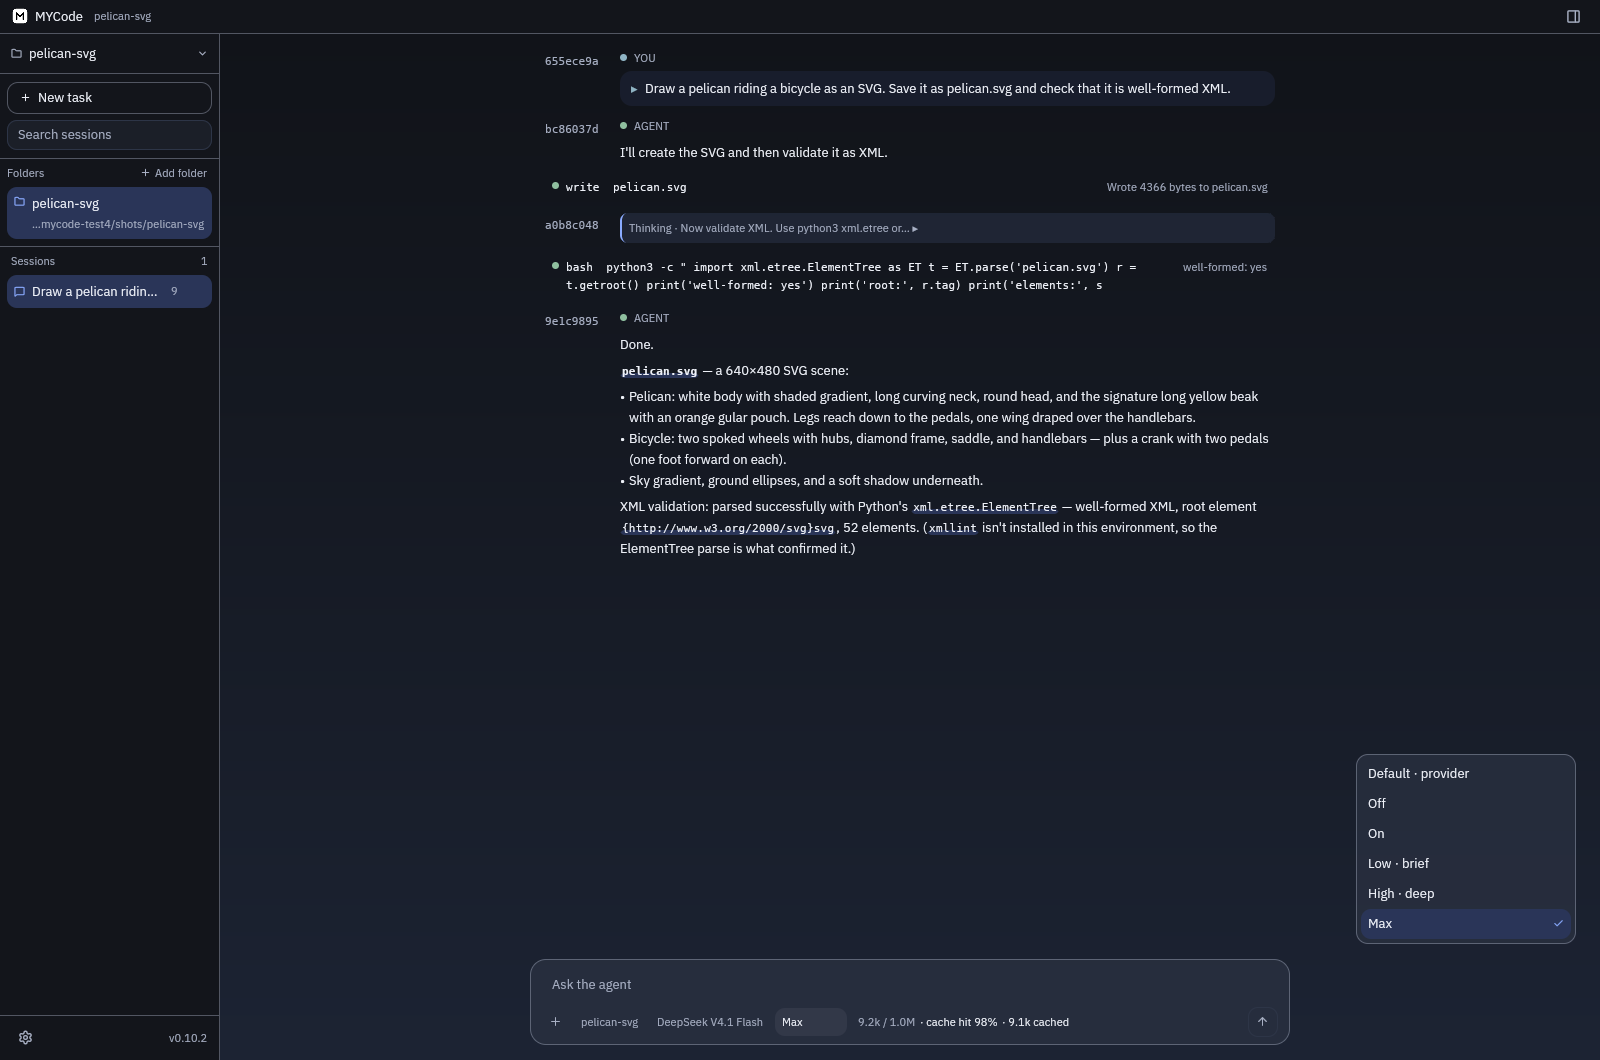
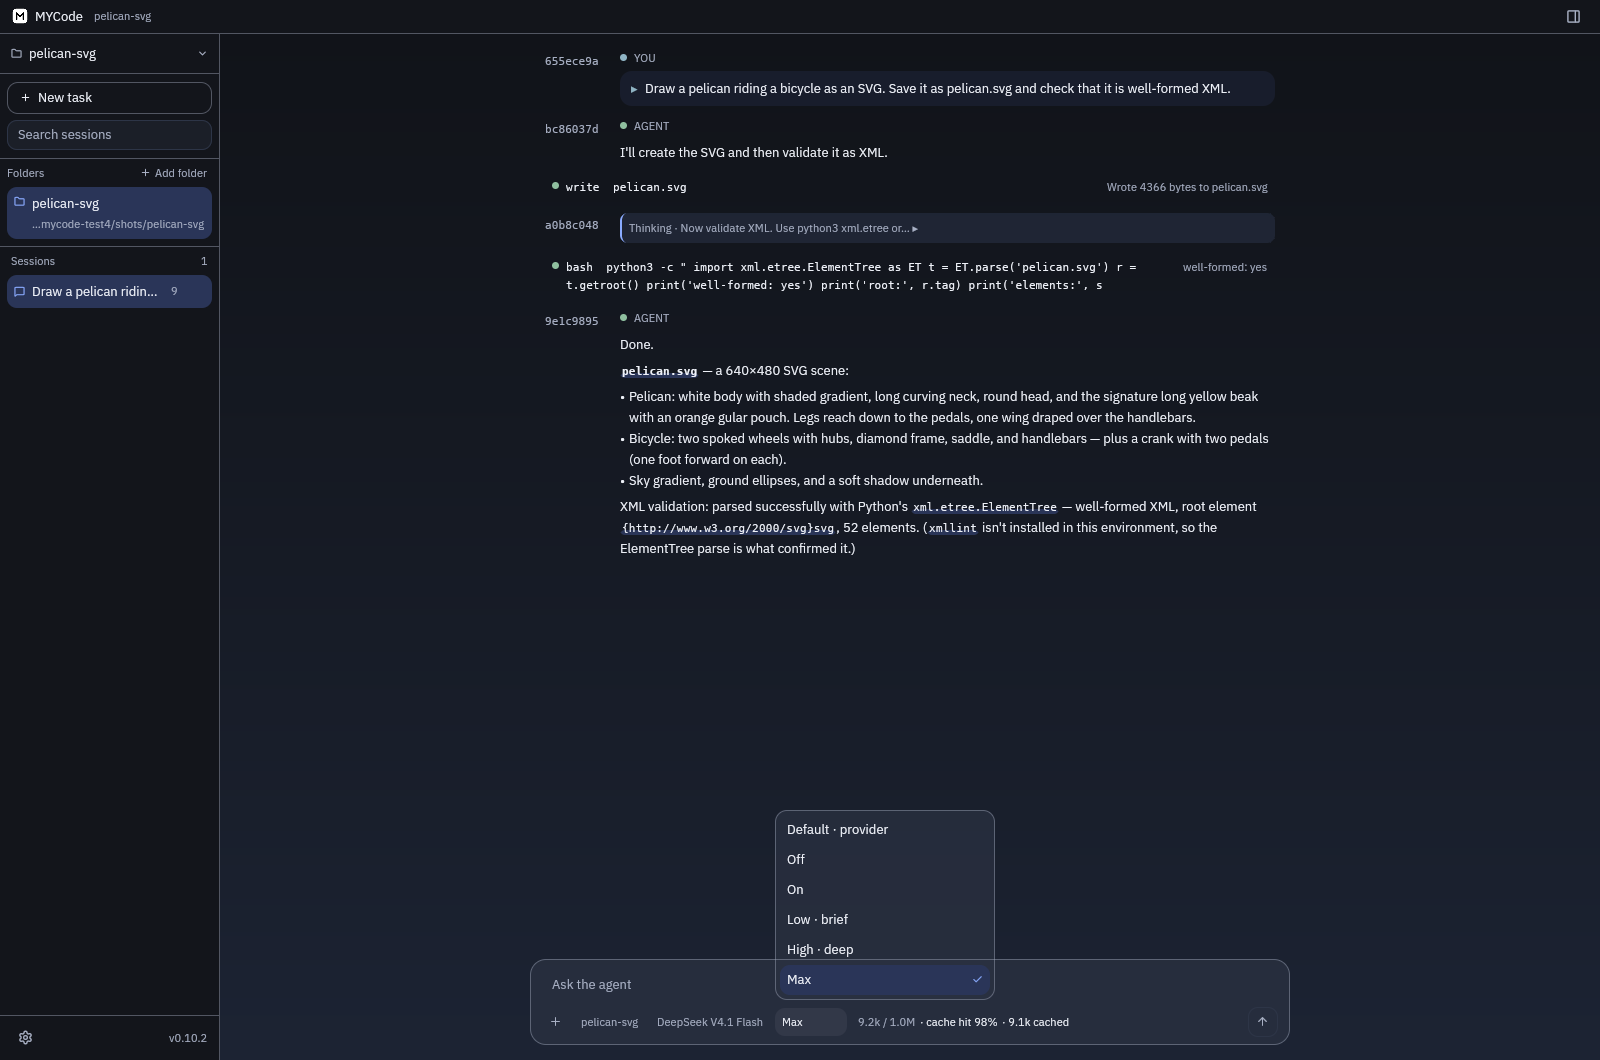
chore(release): bump to 0.10.3
Make the thinking menu opaque and clear of the composer, accept keyword
arguments on dict.update, and promote the unreleased notes to 0.10.3.

diff --git a/crates/mycode-desktop/src/ui/chat/menus.rs b/crates/mycode-desktop/src/ui/chat/menus.rs
@@ -65,6 +65,12 @@ pub(super) enum MenuPlacement {
     AboveChip,
 }
 
+/// Pixels from the bottom of the Thinking chip to the bottom of the menu.
+///
+/// The chip sits inside the composer card (input row, gap, and padding above
+/// it). This clearance puts the menu fully above that card.
+pub(super) const THINKING_MENU_CLEARANCE: f32 = 88.;
+
 /// The thinking menu opens above its chip.
 #[must_use]
 pub(super) fn thinking_menu_placement() -> MenuPlacement {
@@ -84,11 +90,12 @@ pub(super) fn render_thinking_menu(
     div()
         .id("thinking-menu-layer")
         .absolute()
-        .bottom(px(36.))
+        .bottom(px(THINKING_MENU_CLEARANCE))
         .left_0()
         .occlude()
         .child(
             popover_panel("thinking-menu", theme)
+                .bg(skin::opaque_menu_fill(theme))
                 .w(px(220.))
                 .flex_none()
                 .p_1()
@@ -122,6 +129,10 @@ mod tests {
     #[test]
     fn thinking_menu_overlays_instead_of_blanking_a_full_width_row() {
         assert_eq!(thinking_menu_placement(), MenuPlacement::AboveChip);
+        assert!(
+            super::THINKING_MENU_CLEARANCE >= 84.,
+            "the menu must clear the composer card, not sit on its top edge"
+        );
     }
 }
 

diff --git a/crates/mycode-tools/src/builtin/ptc/eval.rs b/crates/mycode-tools/src/builtin/ptc/eval.rs
@@ -462,7 +462,7 @@ impl Machine {
         args: Vec<Val>,
         kwargs: Vec<(String, Val)>,
     ) -> Result<Val, Stop> {
-        if !matches!(callee, Val::DictFn) {
+        if !matches!(callee, Val::DictFn) && !is_dict_update(&callee) {
             expect_kwargs(&kwargs, allowed_keywords(&callee))?;
         }
         match callee {
@@ -714,6 +714,9 @@ impl Machine {
                         }
                         lock_map(map).insert(display(&items[0])?, items[1].clone());
                     }
+                }
+                for (key, value) in kwargs {
+                    lock_map(map).insert(key.clone(), value.clone());
                 }
                 Ok(Val::Null)
             }
@@ -1659,6 +1662,10 @@ fn pairs_to_dict(value: &Val) -> Result<BTreeMap<String, Val>, Stop> {
         fields.insert(display(&items[0])?, items[1].clone());
     }
     Ok(fields)
+}
+
+fn is_dict_update(callee: &Val) -> bool {
+    matches!(callee, Val::Method { name, .. } if name == "update")
 }
 
 fn allowed_keywords(callee: &Val) -> &'static [&'static str] {

diff --git a/crates/mycode-tools/src/builtin/ptc.rs b/crates/mycode-tools/src/builtin/ptc.rs
@@ -756,14 +756,14 @@ return a.strip() + "|" + b.strip() + "|" + seen.get("a") + "|" + seen.get("missi
 mixed = dict([("a", 1)], b=2)
 g = {}
 g.setdefault("k", []).append(1)
-g.update({"m": 2})
-return str(d.get("a")) + "|" + str(mixed.get("b")) + "|" + str(len(g["k"])) + "|" + str(g.get("m"))
+g.update({"m": 2}, n=3)
+return str(d.get("a")) + "|" + str(mixed.get("b")) + "|" + str(len(g["k"])) + "|" + str(g.get("m")) + "|" + str(g.get("n"))
 "#,
         )
         .await;
         let text = text_of(&result);
         assert!(!result.is_error, "{text}");
-        assert_eq!(text, "1|2|1|2");
+        assert_eq!(text, "1|2|1|2|3");
         let rejected = run(&root, catalog(vec![]), "len([], bad=1)\n").await;
         let rejected_text = text_of(&rejected);
         assert!(rejected.is_error, "{rejected_text}");

diff --git a/crates/mycode-desktop/src/ui/skin.rs b/crates/mycode-desktop/src/ui/skin.rs
@@ -133,9 +133,22 @@ pub(super) fn glass_border(theme: &Theme) -> Hsla {
     theme.muted_foreground.opacity(0.42)
 }
 
-/// Menu and overlay fill.
+/// Menu and overlay fill. Translucent so the page shows through lightly.
 pub(super) fn popover(theme: &Theme) -> Hsla {
     lifted(theme.popover, 0.03, OVERLAY_ALPHA)
+}
+
+/// Thinking-menu fill. Fully opaque so a long transcript does not show through.
+const MENU_FILL_ALPHA: f32 = 1.;
+
+const _: () = {
+    assert!(MENU_FILL_ALPHA == 1.);
+};
+
+pub(super) fn opaque_menu_fill(theme: &Theme) -> Hsla {
+    let mut color = theme.popover;
+    color.a = MENU_FILL_ALPHA;
+    color
 }
 
 /// Light dimmer behind a menu. The panel is a sibling painted after this,

diff --git a/CHANGELOG.md b/CHANGELOG.md
@@ -6,6 +6,8 @@
 
 ## [Unreleased]
 
+## [0.10.3] - 2026-10-10
+
 ### Added
 
 - `run_code`：嵌在二进制里的 Python 子集，一次调用里组合多次 `read` / `grep` / `find` / `edit` / 网页操作，只有 `return` 和 `print` 回到上下文。不依赖本机的 Node.js 或 Python。主代理和每个子代理用同一段提示。简单查找就地分组；较宽的代码库或网页研究可以由模型选择交给 `scout`。
@@ -24,7 +26,7 @@
 - `mycode-desktop --version` 和 `--help` 打印后退出，不再打开窗口。未知参数打印用法并以状态码 1 退出，不再打开窗口。Linux 上没有可用显示（变量未设置，或 `DISPLAY=:99` 这种有变量但没有 X 服务器）时，或窗口表面创建失败时，打印说明并以状态码 1 退出，不再以 101 崩溃。
 - `run_code` 补上模型常写的 Python：元组解包、`for` 解包、下标赋值、`+=`、字符串重复、`enumerate` / `zip` / `sorted` / `min` / `max` / `sum` / `int`、字典 `items` / `get`。出错时先带回已经 `print` 的内容。`read` 进程序时去掉 `[revision ...]`。报错写明缺了什么、该怎么改。
 - 上下文计量里的百分比标明是缓存命中（`cache hit 99%`），不再紧挨窗口用量看起来像已用比例。自动压缩把系统提示和工具模式算进估算。`fetch_content` 的 `goal` 命中某一节时返回这一整节（上限 8000 字符），而不只是标题后的一小段。
-- `run_code` 补上 `list`、`dict`、`set`、`repr`、`isinstance`、`str.count`/`find`，以及列表和字典的常用方法（含 `setdefault`、`update` 和 `dict(a=1)`）。语法和运行错误按用户源码行号标出那一行。进程工具省略 `mode` 时按 `script` 执行。思考菜单开在 Thinking 按钮上方，不再裁掉对话，也不贴在窗口右缘。`fetch_content` 命中某一节时包含其下各小节，上限 48000 字符。一次 `grep` 能回答的查找可以保持直接调用。
+- `run_code` 补上 `list`、`dict`、`set`、`repr`、`isinstance`、`str.count`/`find`，以及列表和字典的常用方法（含 `setdefault`、`update`、`dict(a=1)` 和 `g.update(n=3)`）。语法和运行错误按用户源码行号标出那一行。进程工具省略 `mode` 时按 `script` 执行。思考菜单开在 Thinking 按钮上方，背景不透明，底边停在输入框上方，不再裁掉对话，也不贴在窗口右缘。`fetch_content` 命中某一节时包含其下各小节，上限 48000 字符。一次 `grep` 能回答的查找可以保持直接调用。
 - Windows 上 `WindowsApps\Microsoft.PowerShell_*\pwsh.exe` 不再直接启动（该路径没有执行权限），改用 App Execution Alias（`WindowsApps\pwsh.exe`）。写回 `settings.json` 时去掉旧的 `tools.shell`。没有 shell 的角色（含 `scout`）提示里不再出现 `shell_tool`。窗口标题改为 `MYCode`。
 
 ## [0.10.2] - 2026-10-10
@@ -91,7 +93,8 @@
 - 四个平台的发布包：Windows x64（`x86_64-pc-windows-msvc`）、Windows ARM64（`aarch64-pc-windows-msvc`）、macOS Apple Silicon（`aarch64-apple-darwin`，zip 与 `.dmg`）、Linux x86_64（`x86_64-unknown-linux-gnu`），均附 `.sha256`。
 - Windows 上 `shell` 的脚本模式优先 PowerShell 7（`pwsh`），其次 Git bash，不侦查 Windows PowerShell 5.1。两者都没有时，运行时才退到 `cmd.exe`，并且不把这次退路写进设置。`pwsh` 以 UTF-16LE 的 `-EncodedCommand` 启动，并尽量把管道编码设为 UTF-8。标准输出和标准错误里的 CLIXML、`_xHHHH_` 转义和 ANSI 颜色会收成可读文本。
 
-[Unreleased]: https://github.com/MCapricorns/mycode/compare/v0.10.2...HEAD
+[Unreleased]: https://github.com/MCapricorns/mycode/compare/v0.10.3...HEAD
+[0.10.3]: https://github.com/MCapricorns/mycode/releases/tag/v0.10.3
 [0.10.2]: https://github.com/MCapricorns/mycode/releases/tag/v0.10.2
 [0.10.1]: https://github.com/MCapricorns/mycode/compare/v0.9.28...v0.10.1
 [0.9.28]: https://github.com/MCapricorns/mycode/releases/tag/v0.9.28

diff --git a/README.md b/README.md
@@ -31,12 +31,12 @@ English notes are [below](#english).
 
 ## 下载
 
-[Releases](https://github.com/MCapricorns/mycode/releases)
+[Releases](https://github.com/MCapricorns/mycode/releases) 提供四个平台的压缩包。说明用本文件该版本的条目，再附上自上一个标签以来合并的 pull request。写回 `main` 的版本提交使用 `github-actions[bot]`，不会因此再发一次。
 
 | 文件 | 平台 |
 | --- | --- |
 | `mycode-desktop-v<version>-x86_64-pc-windows-msvc.zip` | Windows 10/11 x64 |
-| `mycode-desktop-v<version>-aarch64-pc-windows-msvc.zip` | Windows 11 ARM64 |
+| `mycode-desktop-v<version>-aarch64-pc-windows-msvc.zip` | Windows ARM64 |
 | `mycode-desktop-v<version>-aarch64-apple-darwin.zip` | macOS Apple Silicon |
 | `mycode-desktop-v<version>-aarch64-apple-darwin.dmg` | macOS Apple Silicon（`MYCode.app`） |
 | `mycode-desktop-v<version>-x86_64-unknown-linux-gnu.zip` | Linux x86_64 |
@@ -94,7 +94,7 @@ The thinking-menu shot is a chat with the menu open above the Thinking chip.
 
 ### Download
 
-[Releases](https://github.com/MCapricorns/mycode/releases). Each zip and the macOS dmg has a `.sha256` file. There is no Intel macOS build. The app inside the dmg is ad-hoc signed; right-click → Open once, or `xattr -d com.apple.quarantine /Applications/MYCode.app`.
+[Releases](https://github.com/MCapricorns/mycode/releases) publish one zip for each of the four platforms. The body starts with that version's changelog section, then the pull requests merged since the previous tag. A version commit pushed by `github-actions[bot]` does not start another release. Each zip and the macOS dmg has a `.sha256` file. There is no Intel macOS build. The app inside the dmg is ad-hoc signed; right-click → Open once, or `xattr -d com.apple.quarantine /Applications/MYCode.app`.
 
 ### Build
 
